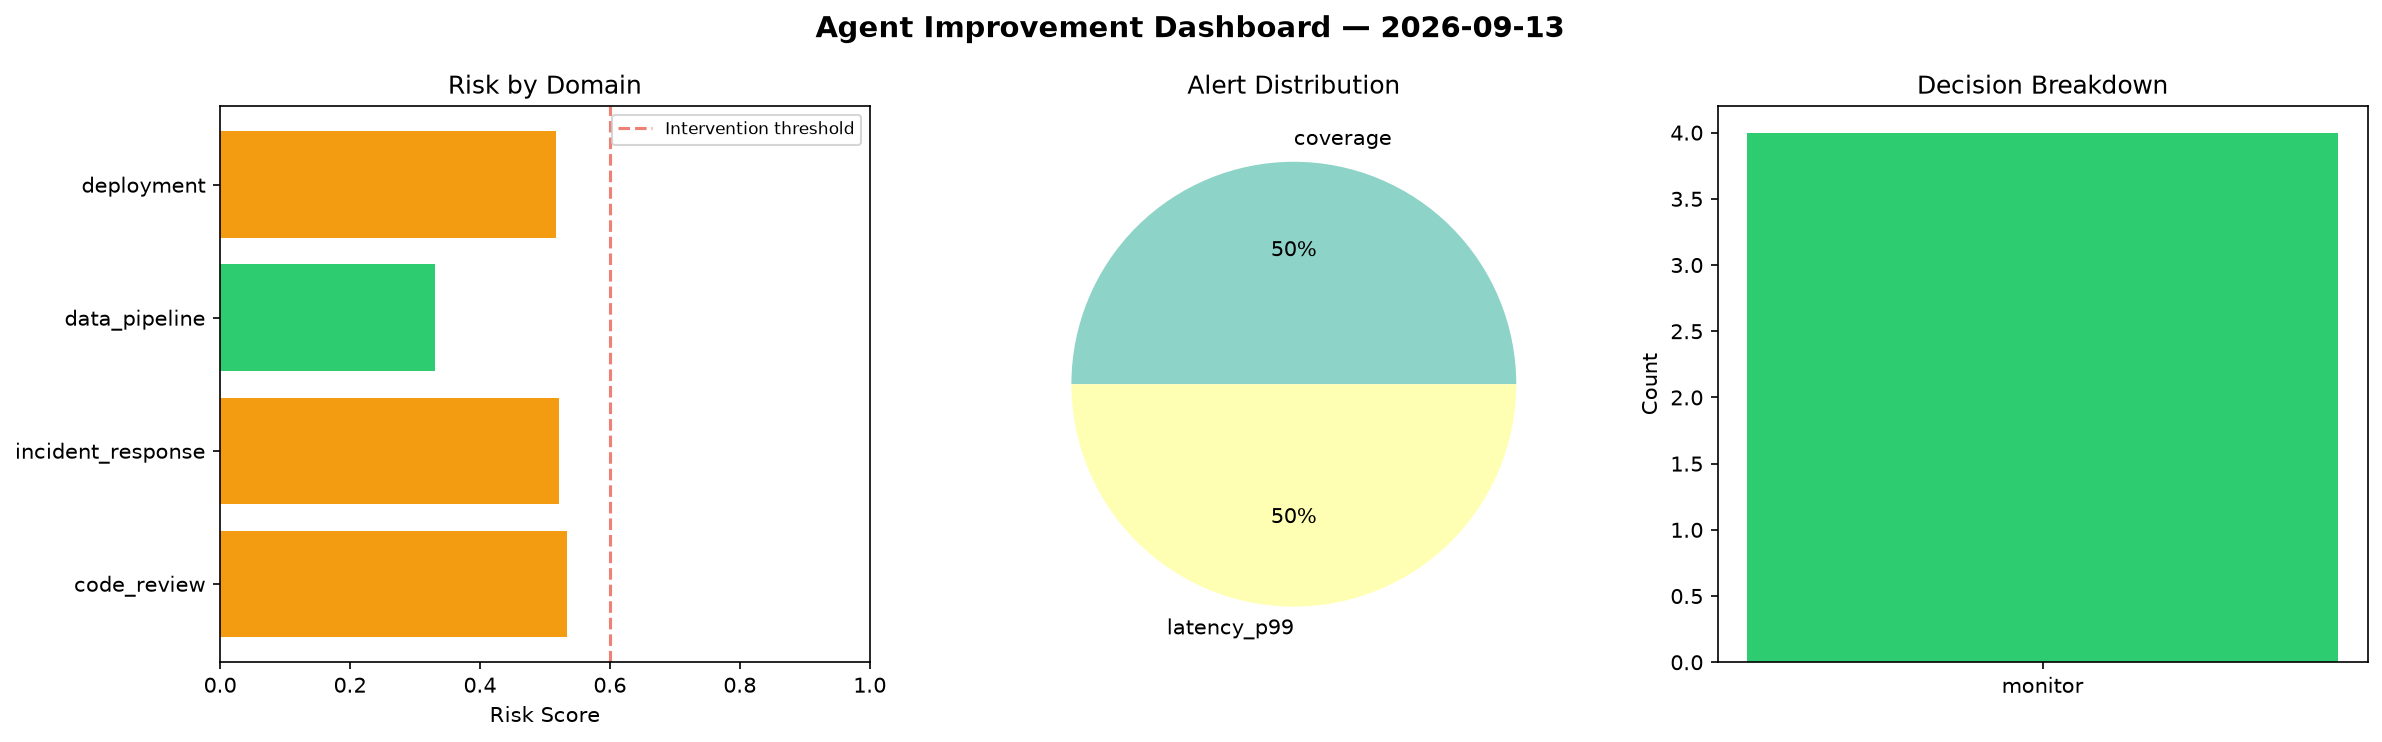
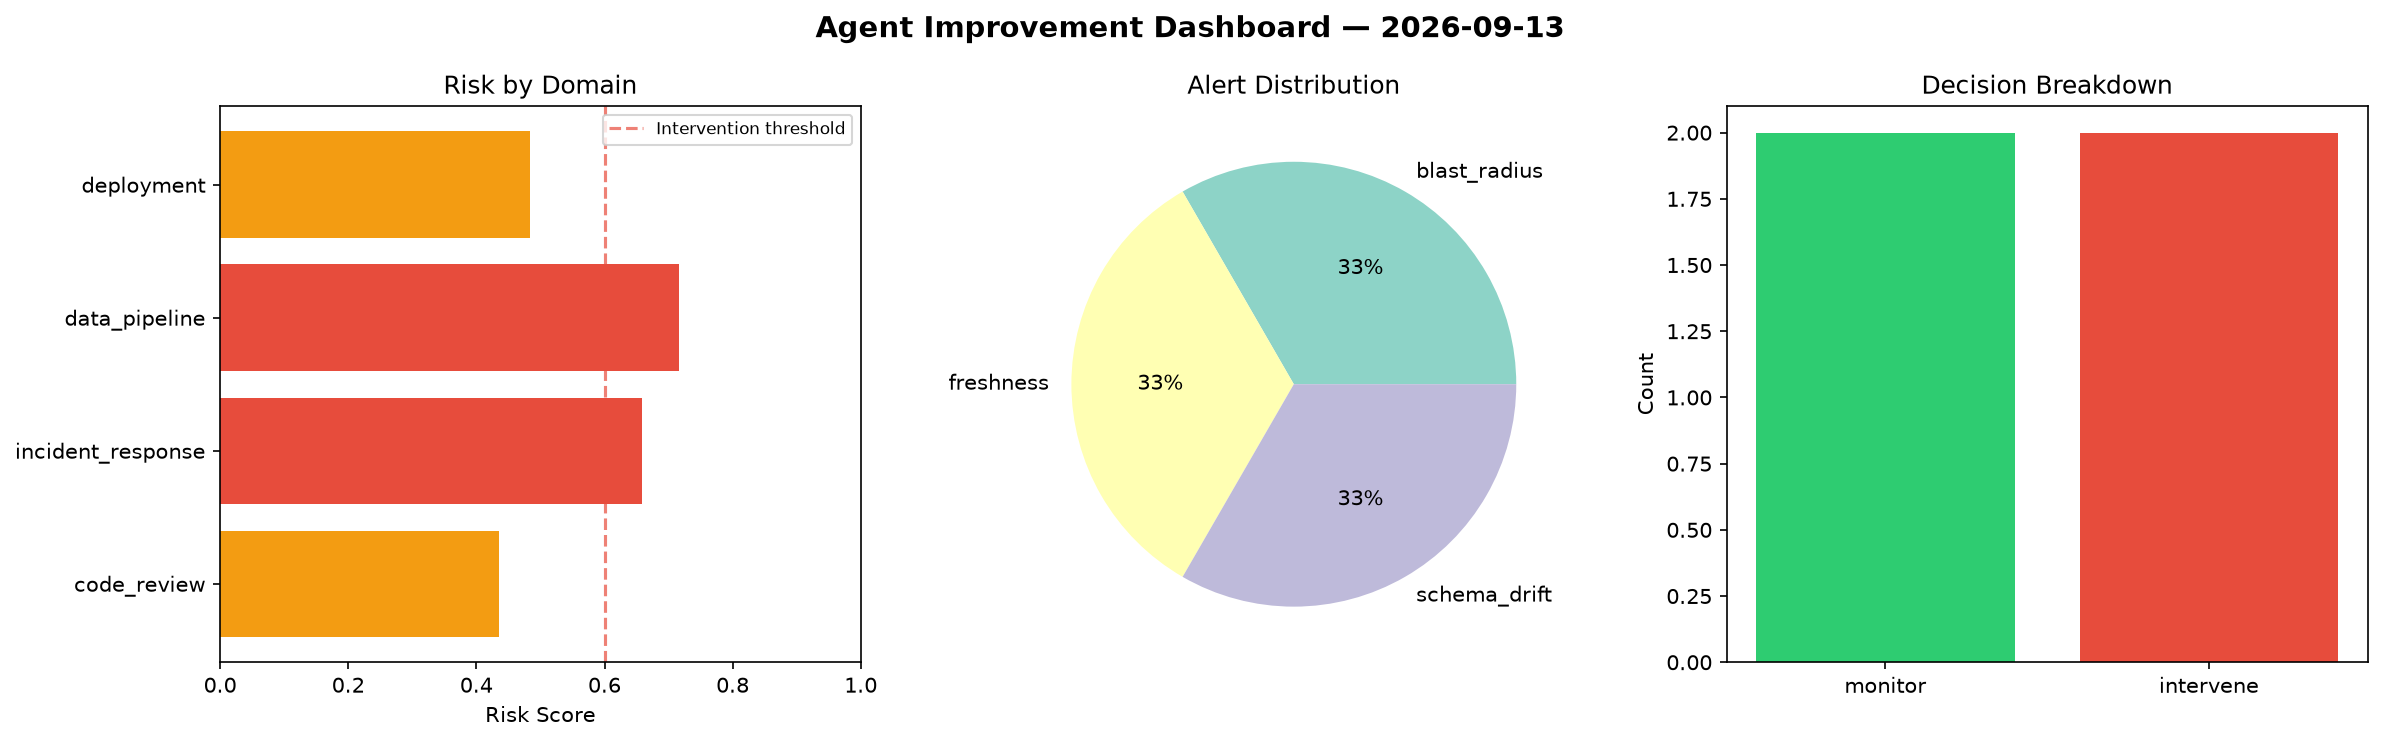
agent-improvement: daily cycle 2026-09-13T13:18

diff --git a/logs/2026-09-13.md b/logs/2026-09-13.md
@@ -1,6 +1,6 @@
 # Agent Improvement Report — 2026-09-13
 
-**Cycle ID:** `aae0cc25` | **Avg Risk:** 0.4758 | **Interventions:** 0/4
+**Cycle ID:** `0a599e9b` | **Avg Risk:** 0.5733 | **Interventions:** 2/4
 
 ![Dashboard](2026-09-13_dashboard.png)
 
@@ -10,18 +10,18 @@
 
 | Domain | Risk Score | Decision | Alerts |
 |--------|-----------|----------|--------|
-| code_review | 0.5339 | monitor | coverage |
-| incident_response | 0.5215 | monitor | none |
-| data_pipeline | 0.3311 | monitor | none |
-| deployment | 0.5167 | monitor | latency_p99 |
+| code_review | 0.4347 | monitor | none |
+| incident_response | 0.6591 | intervene | blast_radius |
+| data_pipeline | 0.7161 | intervene | freshness, schema_drift |
+| deployment | 0.4833 | monitor | none |
 
 ## Delta vs Yesterday
 
 | Domain | Today | Yesterday | Change |
 |--------|-------|-----------|--------|
-| code_review | 0.5339 | 0.3615 | 📈 47.7% |
-| incident_response | 0.5215 | 0.6626 | 📉 -21.3% |
-| data_pipeline | 0.3311 | 0.3552 | 📉 -6.8% |
-| deployment | 0.5167 | 0.8755 | 📉 -41.0% |
+| code_review | 0.4347 | 0.3615 | 📈 20.2% |
+| incident_response | 0.6591 | 0.6626 | 📉 -0.5% |
+| data_pipeline | 0.7161 | 0.3552 | 📈 101.6% |
+| deployment | 0.4833 | 0.8755 | 📉 -44.8% |
 
-**Refinement:** `{'adjustment': 'maintain', 'trend': 'improving', 'window': 4}`
+**Refinement:** `{'adjustment': 'tighten_thresholds', 'trend': 'degrading', 'window': 4}`
